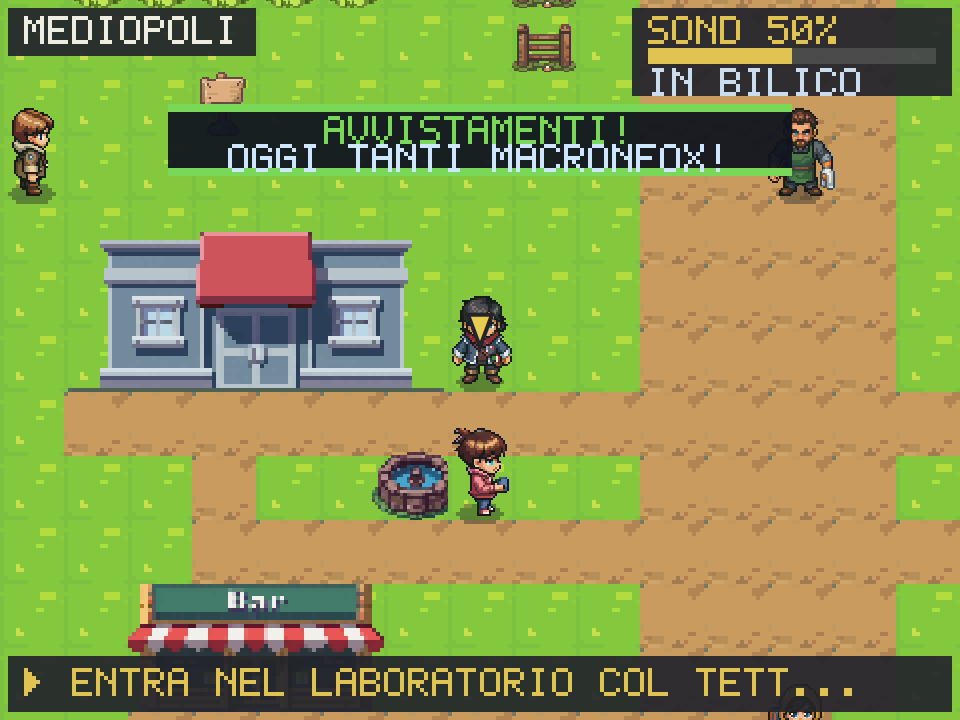
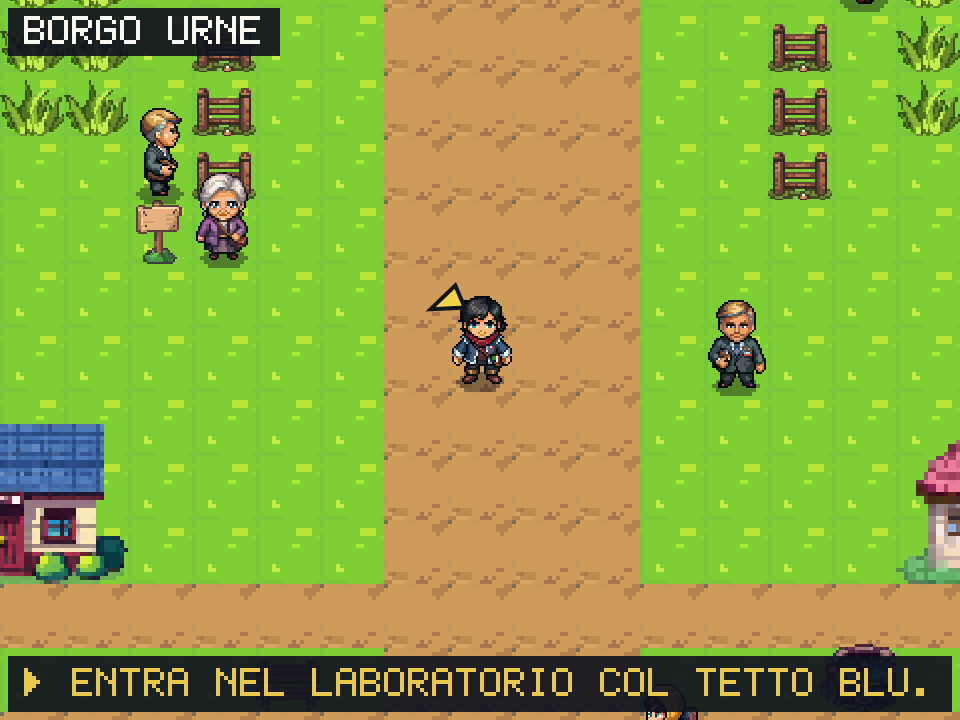
README: badge onesto sui linguaggi + slogan titolo intero + screenshot aggiornati
- .gitattributes: marca scripts/ come linguist-vendored. Sono solo tooling di
  sviluppo (screenshot Playwright, generatori, check), NON il gioco. Cosi' la barra
  linguaggi di GitHub riflette il gioco (TypeScript) invece di gonfiare il JavaScript
  degli script (era 70% TS / 28% JS).
- README: badge 'TypeScript 100%' (falso) -> 'gioco: TypeScript'. Il gioco in src/
  e' TS puro; il claim ora e' vero.
- TitleScene: lo slogan rotante veniva troncato con '...' (es. 'DAL BORGO AL PALAZZO
  A COLPI DI COM...'); ora va a capo su 2 righe centrate e si legge intero.
- Screenshot README rigenerati (title con slogan completo, world con la barra guida
  non piu' troncata).

diff --git a/src/scenes/TitleScene.ts b/src/scenes/TitleScene.ts
@@ -7,7 +7,7 @@ import { Screen, VIEW_H, VIEW_W } from "../engine/screen";
 import { hasAnySave, newGameState, type GameState } from "../game/state";
 import { mp } from "../net/mp";
 import { hasNick, loadNick } from "../net/profile";
-import { Menu, MessageBox, clipToWidth, GREY, PAPER } from "../ui/widgets";
+import { Menu, MessageBox, clipToWidth, wrapText, GREY, PAPER } from "../ui/widgets";
 import { NicknameScene } from "./NicknameScene";
 import { SlotScene } from "./SlotScene";
 import { WorldScene } from "../game/world/WorldScene";
@@ -268,8 +268,13 @@ export class TitleScene implements Scene {
     // Slogan rotante (indice sempre valido, anche se this.time è NaN/negativo).
     const t = Number.isFinite(this.time) ? this.time : 0;
     const slogan = SLOGANS[Math.abs(Math.floor(t / 3)) % SLOGANS.length] ?? SLOGANS[0];
-    // Clamp a 220px: lo slogan non tocca mai i bordi (margine 10px per lato).
-    screen.textCenter(clipToWidth(slogan, 220), VIEW_W / 2, 30, PAPER);
+    // Slogan INTERO su max 2 righe centrate (prima clipToWidth lo troncava con
+    // "...", es. "DAL BORGO AL PALAZZO A COLPI DI COM..."). 36 char/riga a 6px.
+    const lines = wrapText(slogan, 36);
+    const y0 = lines.length > 1 ? 27 : 30;
+    for (let i = 0; i < lines.length; i += 1) {
+      screen.textCenter(lines[i], VIEW_W / 2, y0 + i * 9, PAPER);
+    }
   }
 
   private drawStarterShowcase(screen: Screen): void {

diff --git a/README.md b/README.md
@@ -10,7 +10,7 @@ installabile come app, con **multiplayer peer-to-peer** — zero server, zero co
 
 [![Gioca ora](https://img.shields.io/badge/▶_GIOCA_ORA-politicmon.vercel.app-e8c84a?style=for-the-badge)](https://politicmon.vercel.app)
 
-![TypeScript](https://img.shields.io/badge/TypeScript-100%25-3178c6?style=flat-square&logo=typescript&logoColor=white)
+![TypeScript](https://img.shields.io/badge/gioco-TypeScript-3178c6?style=flat-square&logo=typescript&logoColor=white)
 ![Zero runtime deps](https://img.shields.io/badge/runtime_deps-1_(P2P)-44cc44?style=flat-square)
 ![PWA](https://img.shields.io/badge/PWA-installabile-5a3fc0?style=flat-square)
 ![Canvas 2D](https://img.shields.io/badge/canvas_2D-puro-d88030?style=flat-square)